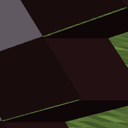
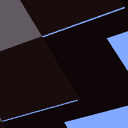
Upload 0.2.1
- Fixed enchantment glint on back (north) side of models in pixel mode
- Changed icon
- Renamed some methods

diff --git a/src/main/java/me/pepperbell/itemmodelfix/mixin/ItemModelGeneratorMixin.java b/src/main/java/me/pepperbell/itemmodelfix/mixin/ItemModelGeneratorMixin.java
@@ -25,8 +25,8 @@ import net.minecraft.util.math.Direction;
 
 @Mixin(ItemModelGenerator.class)
 public class ItemModelGeneratorMixin {
-	@Inject(at=@At(value="TAIL"),method="addLayerElements(ILjava/lang/String;Lnet/minecraft/client/texture/Sprite;)Ljava/util/List;",locals=LocalCapture.CAPTURE_FAILHARD)
-	private void onAddLayerElements(int layer, String key, Sprite sprite, CallbackInfoReturnable<List<ModelElement>> cir, Map<Direction, ModelElementFace> map, List<ModelElement> list) {
+	@Inject(at=@At(value="TAIL"), method="addLayerElements(ILjava/lang/String;Lnet/minecraft/client/texture/Sprite;)Ljava/util/List;", locals=LocalCapture.CAPTURE_FAILHARD)
+	private void onTailAddLayerElements(int layer, String key, Sprite sprite, CallbackInfoReturnable<List<ModelElement>> cir, Map<Direction, ModelElementFace> map, List<ModelElement> list) {
 		if (ItemModelFix.getConfig().getOptions().generationType == ModelGenerationType.UNLERP) {
 			for (ModelElement element : list) {
 				for (ModelElementFace face : element.faces.values()) {
@@ -36,14 +36,14 @@ public class ItemModelGeneratorMixin {
 		}
 	}
 	
-	@Inject(at=@At(value="HEAD"),method="addLayerElements(ILjava/lang/String;Lnet/minecraft/client/texture/Sprite;)Ljava/util/List;",cancellable=true)
-	public void onAddLayerElements1(int layer, String key, Sprite sprite, CallbackInfoReturnable<List<ModelElement>> cir) {
+	@Inject(at=@At(value="HEAD"), method="addLayerElements(ILjava/lang/String;Lnet/minecraft/client/texture/Sprite;)Ljava/util/List;", cancellable=true)
+	public void onHeadAddLayerElements(int layer, String key, Sprite sprite, CallbackInfoReturnable<List<ModelElement>> cir) {
 		if (ItemModelFix.getConfig().getOptions().generationType == ModelGenerationType.PIXEL) {
-			cir.setReturnValue(addLayerElementsPixels(layer, key, sprite));
+			cir.setReturnValue(addLayerPixelElements(layer, key, sprite));
 		}
 	}
 	
-	private List<ModelElement> addLayerElementsPixels(int layer, String key, Sprite sprite) {
+	private List<ModelElement> addLayerPixelElements(int layer, String key, Sprite sprite) {
 		List<ModelElement> elements = Lists.newArrayList();
 		
 		int width = sprite.getWidth();
@@ -51,14 +51,16 @@ public class ItemModelGeneratorMixin {
 		float xRatio = width/16;
 		float yRatio = height/16;
 		
-	    for (int f = 0; f < sprite.getFrameCount(); ++f) {
-	    	for (int y = 0; y < height; ++y) {
+		for (int f = 0; f < sprite.getFrameCount(); ++f) {
+			for (int y = 0; y < height; ++y) {
 				for (int x = 0; x < width; ++x) {
 					if (!isPixelTransparent(sprite, f, x, y)) {
 						Map<Direction, ModelElementFace> map = Maps.newHashMap();
 						ModelElementFace face = new ModelElementFace(null, layer, key, new ModelElementTexture(new float[]{x/xRatio, y/yRatio, (x+1)/xRatio, (y+1)/yRatio}, 0));
-						map.put(Direction.NORTH, face);
+						ModelElementFace flippedFace = new ModelElementFace(null, layer, key, new ModelElementTexture(new float[]{(x+1)/xRatio, y/yRatio, x/xRatio, (y+1)/yRatio}, 0));
+						
 						map.put(Direction.SOUTH, face);
+						map.put(Direction.NORTH, flippedFace);
 						if (isPixelTransparent(sprite, f, x+1, y)) {
 							map.put(Direction.EAST, face);
 						}
@@ -71,15 +73,16 @@ public class ItemModelGeneratorMixin {
 						if (isPixelTransparent(sprite, f, x, y-1)) {
 							map.put(Direction.UP, face);
 						}
+						
 						elements.add(new ModelElement(new Vector3f(x/xRatio, (height-(y+1))/yRatio, 7.5F), new Vector3f((x+1)/xRatio, (height-y)/yRatio, 8.5f), map, null, true));
 					}
 				}
-	    	}
-	    }
-	    
+			}
+		}
+		
 		return elements;
 	}
-
+	
 	private static boolean isPixelTransparent(Sprite sprite, int frame, int x, int y) {
 		return (x<0||y<0||x>=sprite.getWidth()||y>=sprite.getHeight()) ? true : sprite.isPixelTransparent(frame, x, y);
 	}

diff --git a/src/main/java/me/pepperbell/itemmodelfix/mixin/FluidRendererMixin.java b/src/main/java/me/pepperbell/itemmodelfix/mixin/FluidRendererMixin.java
@@ -9,12 +9,12 @@ import net.minecraft.client.render.block.FluidRenderer;
 
 @Mixin(value=FluidRenderer.class, priority=100)
 public class FluidRendererMixin {
-	@ModifyConstant(method="render(Lnet/minecraft/world/BlockRenderView;Lnet/minecraft/util/math/BlockPos;Lnet/minecraft/client/render/VertexConsumer;Lnet/minecraft/fluid/FluidState;)Z",constant={@Constant(floatValue=0.001F)})
+	@ModifyConstant(method="render(Lnet/minecraft/world/BlockRenderView;Lnet/minecraft/util/math/BlockPos;Lnet/minecraft/client/render/VertexConsumer;Lnet/minecraft/fluid/FluidState;)Z", constant={@Constant(floatValue=0.001F)})
 	public float onRender(float value) {
 		return ItemModelFix.getConfig().getOptions().fixFluidRendering ? 0 : value;
 	}
 	
-	@ModifyConstant(method="render(Lnet/minecraft/world/BlockRenderView;Lnet/minecraft/util/math/BlockPos;Lnet/minecraft/client/render/VertexConsumer;Lnet/minecraft/fluid/FluidState;)Z",constant={@Constant(doubleValue=0.0010000000474974513D)})
+	@ModifyConstant(method="render(Lnet/minecraft/world/BlockRenderView;Lnet/minecraft/util/math/BlockPos;Lnet/minecraft/client/render/VertexConsumer;Lnet/minecraft/fluid/FluidState;)Z", constant={@Constant(doubleValue=0.0010000000474974513D)})
 	public double onRender(double value) {
 		return ItemModelFix.getConfig().getOptions().fixFluidRendering ? 0 : value;
 	}
